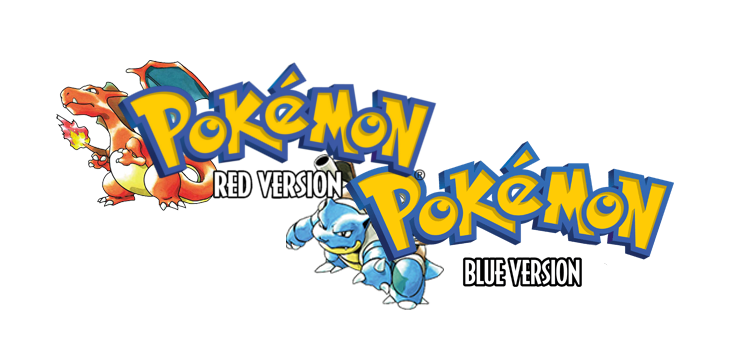
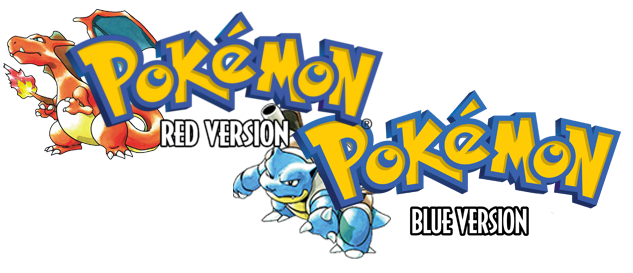
Added more pages for the other games

diff --git a/app.js b/app.js
@@ -9,10 +9,46 @@ app.engine('handlebars', handlebars({layoutsDir: __dirname + '/views/layouts',})
 app.use(express.static(__dirname));
 
 // ========================= LOADING ==========================
+// ------------------ Homepage ------------------
 app.get('/', (req, res) => {
   console.log("The website has requested " + req.url);
   res.render('homepage', {});
 });
 
+// ---------------- Red and Blue ----------------
+app.get('/redandblue', (req, res) => {
+  console.log("The website has requested " + req.url);
+  res.render('redandblue/main', {});
+});
+
+// ------------------- Yellow -------------------
+app.get('/yellow', (req, res) => {
+  console.log("The website has requested " + req.url);
+  res.render('yellow/main', {});
+});
+
+// --------------- Gold and Silver ---------------
+app.get('/goldandsilver', (req, res) => {
+  console.log("The website has requested " + req.url);
+  res.render('goldandsilver/main', {});
+});
+
+// ------------------ Crystal -------------------
+app.get('/crystal', (req, res) => {
+  console.log("The website has requested " + req.url);
+  res.render('crystal/main', {});
+});
+
+// -------------- Ruby and Sapphire -------------
+app.get('/rubyandsapphire', (req, res) => {
+  console.log("The website has requested " + req.url);
+  res.render('rubyandsapphire/main', {});
+});
+
+// ------------------- Emerald ------------------
+app.get('/emerald', (req, res) => {
+  console.log("The website has requested " + req.url);
+  res.render('emerald/main', {});
+});
 // ========================== LISTEN ==========================
 app.listen(port, () => console.log(`Website is listening to port ${port}`));

diff --git a/styles/styles.sass b/styles/styles.sass
@@ -4,6 +4,13 @@ $dark-grey-color: #282828
 $grey-color: #404040
 $text-type: "Times New Roman", Times, sans-serif
 
+// Inside the header and footer is the body
+body
+    background-color: $dark-grey-color
+    margin: 0px
+    color: white
+
+// Class for the header and footer of each page
 .headNfoot
     background-color: $dark-color
     width: 100%
@@ -11,7 +18,7 @@ $text-type: "Times New Roman", Times, sans-serif
     margin: 0px
     color: white
     img
-        width: 950px
+        width: 800px
         height: 150px
         display: block
         margin-left: auto
@@ -21,17 +28,17 @@ $text-type: "Times New Roman", Times, sans-serif
         font-family: $text-type
         color: white
 
+// This is the Contact and Other Games table in the footer
 .footer-table
     table
         margin-left: auto
         margin-right: auto
 
-body
-    background-color: $dark-grey-color
-    margin: 0px
-    color: white
-
-.link-image
+// This is the css for an image link
+.footer-link-image
     img
-        width: 128px
+        width: 150px
         height: 64px
+
+// This is the text at the top of the page
+//.page-decription

diff --git a/styles/styles.css b/styles/styles.css
@@ -1,4 +1,10 @@
 /* To save sass to css run       sass styles.sass:styles.css      in the folder */
+body {
+  background-color: #282828;
+  margin: 0px;
+  color: white;
+}
+
 .headNfoot {
   background-color: #181818;
   width: 100%;
@@ -7,7 +13,7 @@
   color: white;
 }
 .headNfoot img {
-  width: 950px;
+  width: 800px;
   height: 150px;
   display: block;
   margin-left: auto;
@@ -24,14 +30,8 @@
   margin-right: auto;
 }
 
-body {
-  background-color: #282828;
-  margin: 0px;
-  color: white;
-}
-
-.link-image img {
-  width: 128px;
+.footer-link-image img {
+  width: 150px;
   height: 64px;
 }
 
